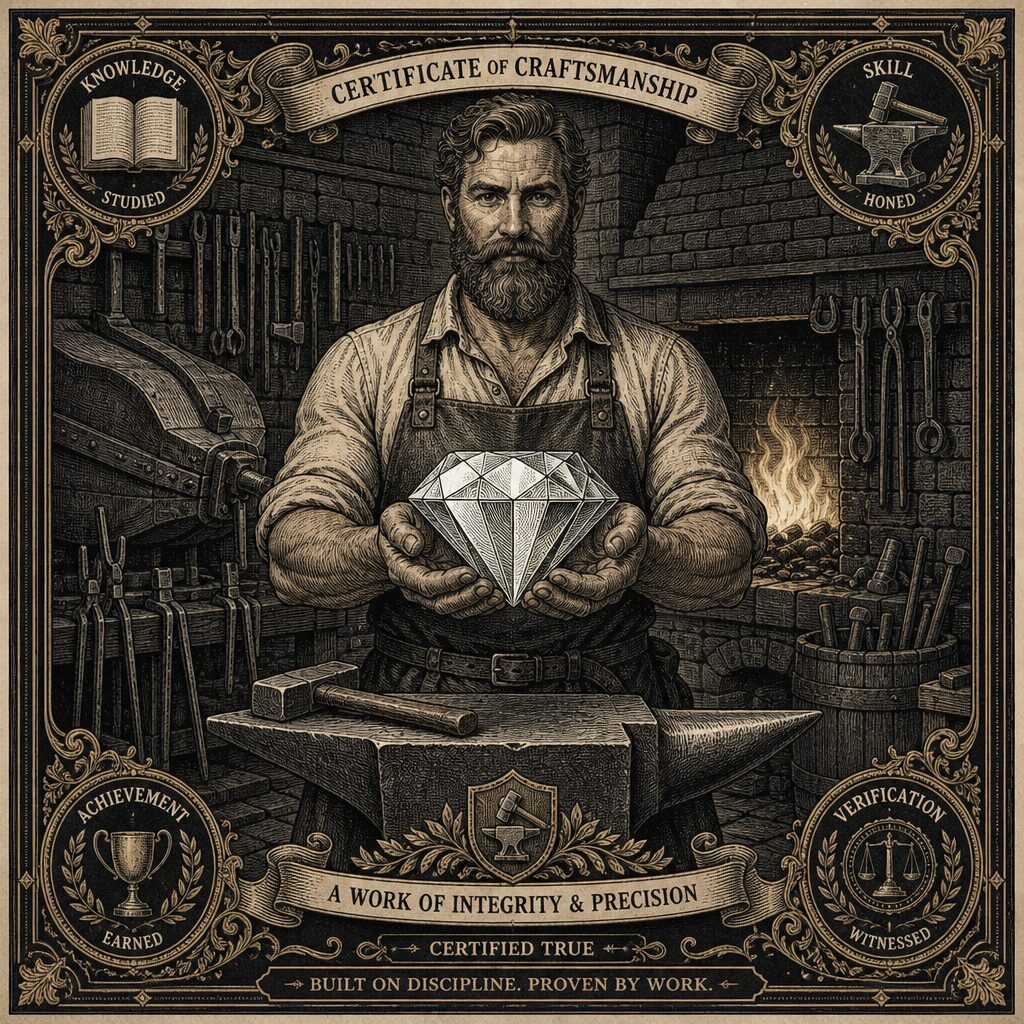
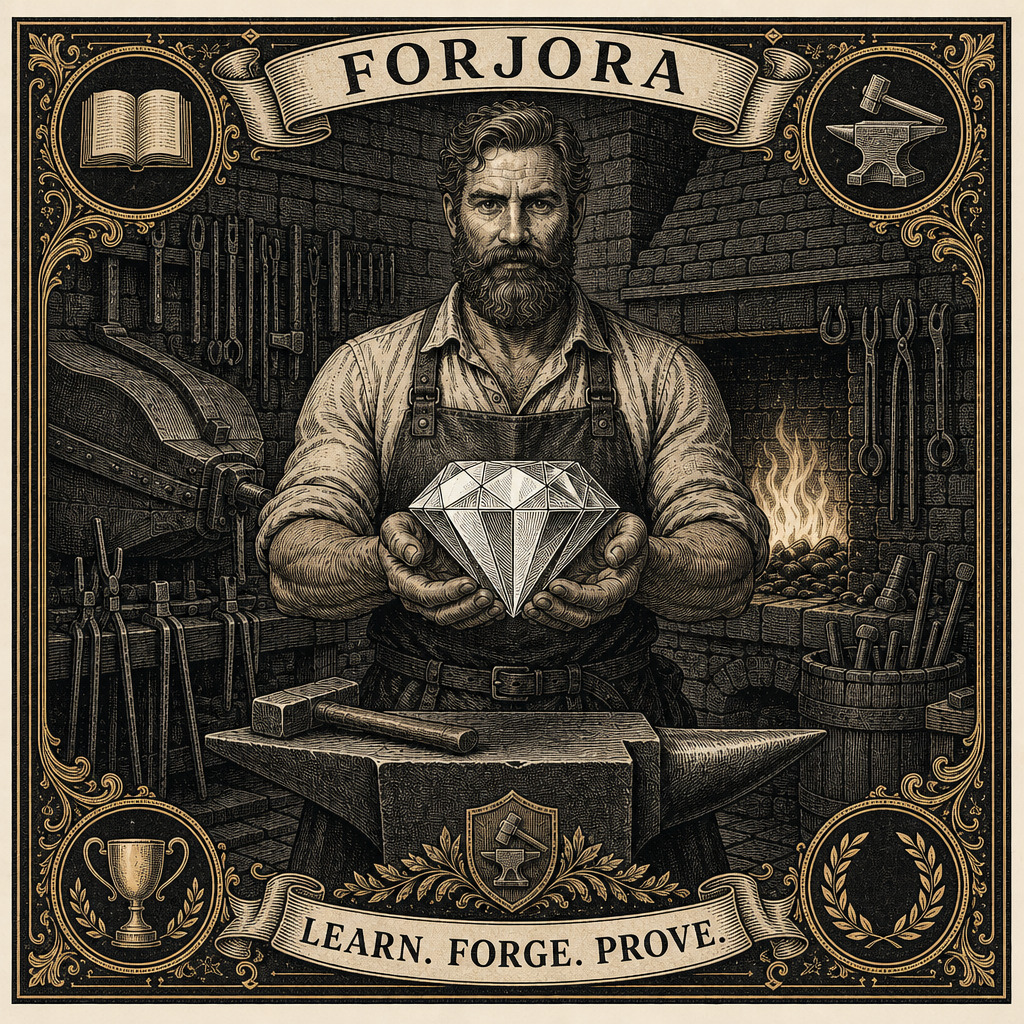
feat:SkillForge — Forjora

diff --git a/src/index.css b/src/index.css
@@ -1349,15 +1349,43 @@ img {
 }
 
 .certificate-brand {
-  letter-spacing: 0.28em;
+  letter-spacing: 0.32em;
   text-transform: uppercase;
-  font-size: 9.39px;
-  color: var(--muted);
+  font-size: 10px;
+  font-weight: 600;
+  color: var(--text);
+  margin: 0;
+}
+
+.certificate-divider {
+  width: 7.5rem;
+  height: 1px;
+  margin: 12px auto 16px;
+  background: var(--accent);
 }
 
 .certificate-title {
+  display: grid;
+  gap: 2px;
   font-size: 18.5px;
-  margin: 8px 0 16px;
+  font-weight: 700;
+  letter-spacing: 0.04em;
+  text-transform: uppercase;
+  margin: 0 0 18px;
+  line-height: 1.15;
+}
+
+.certificate-title-line {
+  display: block;
+}
+
+.certificate-title-of {
+  display: block;
+  font-size: 11px;
+  font-weight: 500;
+  letter-spacing: 0.18em;
+  color: var(--muted);
+  text-transform: lowercase;
 }
 
 .certificate-art-frame {
@@ -1369,6 +1397,8 @@ img {
 .certificate-art-frame img {
   display: block;
   width: 100%;
+  aspect-ratio: 1;
+  object-fit: cover;
 }
 
 .certificate-awarded {
@@ -1376,12 +1406,13 @@ img {
   letter-spacing: 0.12em;
   text-transform: uppercase;
   color: var(--muted);
+  margin: 0;
 }
 
 .certificate-recipient {
   font-size: 24.2px;
   font-weight: 700;
-  margin: 4px 0 12px;
+  margin: 4px 0 16px;
 }
 
 .certificate-path {

diff --git a/src/components/CertificateArtifact.jsx b/src/components/CertificateArtifact.jsx
@@ -29,7 +29,12 @@ function CertificateArtifact({
   return (
     <article className={`certificate-artifact status-${trust.id} ${compact ? "is-compact" : ""}`}>
       <p className="certificate-brand">{PRODUCT_NAME}</p>
-      <h2 className="certificate-title">Certificate of Achievement</h2>
+      <div className="certificate-divider" aria-hidden="true" />
+      <h2 className="certificate-title">
+        <span className="certificate-title-line">Certificate</span>
+        <span className="certificate-title-of">of</span>
+        <span className="certificate-title-line">Achievement</span>
+      </h2>
       <p className="certificate-awarded">Awarded to</p>
       <p className="certificate-recipient">{recipientName || "Recipient"}</p>
       <div className="certificate-art-frame">

diff --git a/docs/METADATA.md b/docs/METADATA.md
@@ -6,7 +6,8 @@ When a credential is minted, explorers and wallets read an on-chain JSON documen
 
 - Title for this credential  
 - A description that is either **self-claimed** or **issuer-attested** — never “verified” or “certified” for a claimed record  
-- Artwork: a forge certificate image (blacksmith, workshop, crafted diamond) when an image URI is configured  
+- Artwork: Forjora forge art — blacksmith in a workshop presenting a crafted diamond, with Learn · Forge · Prove — when an image URI is configured. The image does not say “certified” or “verified”  
+
 - Traits: total points, puzzle pieces, Easy / Medium / Hard correct counts, and an attestation trait that matches claimed vs attested  
 
 The JSON itself is produced by the contract from the minted snapshot (`tokenURI`). Artwork must be a short `ipfs://` or `https://` URI so explorers can show it safely — for example `forge-certificate.jpg` on IPFS (Pinata, web3.storage, or equivalent).

diff --git a/docs/STATUS.md b/docs/STATUS.md
@@ -46,7 +46,7 @@ Existing browser progress is moved onto the account once, so a returning learner
 
 - Sixteen interlocking jigsaw pieces. Points buy a piece; the same piece cannot be bought twice.
 - Completing the puzzle reveals the certificate, asks for a recipient name, then continues to the credential flow.
-- Artwork concept: a refined blacksmith in a forge holding a crafted diamond (learning, learner, skill).
+- Artwork: Forjora forge certificate image — blacksmith in a workshop presenting a crafted diamond; banners say Forjora and Learn · Forge · Prove, not “certified” or “verified”.
 
 ## Credentials
 
